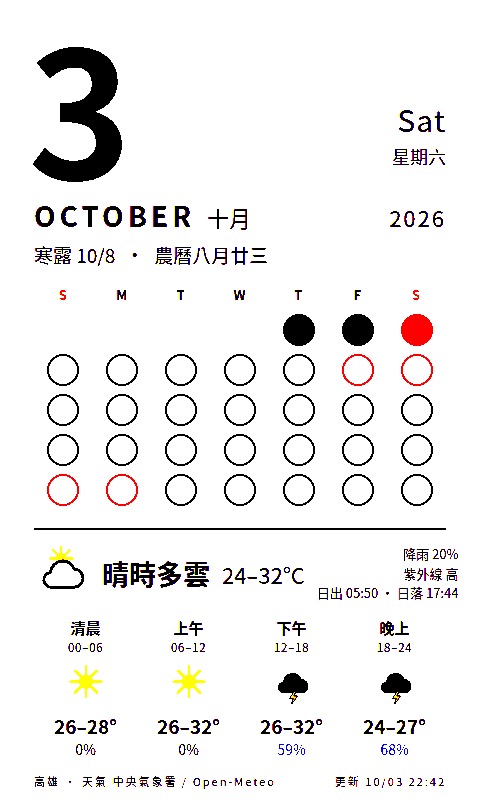
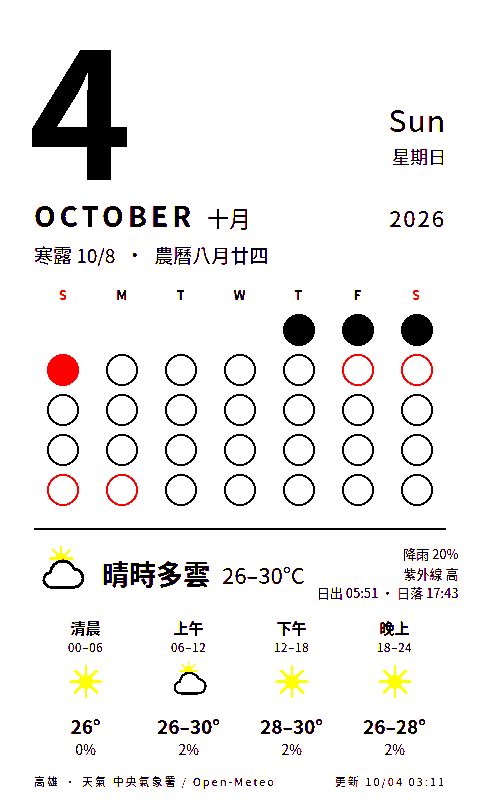
deploy: cf7d1051eb6821bc691ba0ade4beb12cdf9fe0ef

diff --git a/calendar.html b/calendar.html
@@ -47,16 +47,16 @@
 </style></head>
 <body><div class="page">
   <div class="head">
-    <div class="num">3</div>
-    <div class="wd"><div class="en">Sat</div><div class="zh">星期六</div></div>
+    <div class="num">4</div>
+    <div class="wd"><div class="en">Sun</div><div class="zh">星期日</div></div>
   </div>
   <div class="month"><span class="en">OCTOBER</span><span class="zh">十月</span><span class="yr">2026</span></div>
-  <div class="today"><span class="lunar">寒露 10/8</span><span>·</span><span class="lunar">農曆八月廿三</span></div>
-  <div class="grid"><div class="h we">S</div><div class="h">M</div><div class="h">T</div><div class="h">W</div><div class="h">T</div><div class="h">F</div><div class="h we">S</div><div class="dot empty"></div><div class="dot empty"></div><div class="dot empty"></div><div class="dot empty"></div><div class="dot past" title="1"></div><div class="dot past" title="2"></div><div class="dot now" title="3"></div><div class="dot future" title="4"></div><div class="dot future" title="5"></div><div class="dot future" title="6"></div><div class="dot future" title="7"></div><div class="dot future" title="8"></div><div class="dot future hol" title="9"></div><div class="dot future hol" title="10"></div><div class="dot future" title="11"></div><div class="dot future" title="12"></div><div class="dot future" title="13"></div><div class="dot future" title="14"></div><div class="dot future" title="15"></div><div class="dot future" title="16"></div><div class="dot future" title="17"></div><div class="dot future" title="18"></div><div class="dot future" title="19"></div><div class="dot future" title="20"></div><div class="dot future" title="21"></div><div class="dot future" title="22"></div><div class="dot future" title="23"></div><div class="dot future" title="24"></div><div class="dot future hol" title="25"></div><div class="dot future hol" title="26"></div><div class="dot future" title="27"></div><div class="dot future" title="28"></div><div class="dot future" title="29"></div><div class="dot future" title="30"></div><div class="dot future" title="31"></div></div>
+  <div class="today"><span class="lunar">寒露 10/8</span><span>·</span><span class="lunar">農曆八月廿四</span></div>
+  <div class="grid"><div class="h we">S</div><div class="h">M</div><div class="h">T</div><div class="h">W</div><div class="h">T</div><div class="h">F</div><div class="h we">S</div><div class="dot empty"></div><div class="dot empty"></div><div class="dot empty"></div><div class="dot empty"></div><div class="dot past" title="1"></div><div class="dot past" title="2"></div><div class="dot past" title="3"></div><div class="dot now" title="4"></div><div class="dot future" title="5"></div><div class="dot future" title="6"></div><div class="dot future" title="7"></div><div class="dot future" title="8"></div><div class="dot future hol" title="9"></div><div class="dot future hol" title="10"></div><div class="dot future" title="11"></div><div class="dot future" title="12"></div><div class="dot future" title="13"></div><div class="dot future" title="14"></div><div class="dot future" title="15"></div><div class="dot future" title="16"></div><div class="dot future" title="17"></div><div class="dot future" title="18"></div><div class="dot future" title="19"></div><div class="dot future" title="20"></div><div class="dot future" title="21"></div><div class="dot future" title="22"></div><div class="dot future" title="23"></div><div class="dot future" title="24"></div><div class="dot future hol" title="25"></div><div class="dot future hol" title="26"></div><div class="dot future" title="27"></div><div class="dot future" title="28"></div><div class="dot future" title="29"></div><div class="dot future" title="30"></div><div class="dot future" title="31"></div></div>
   <div class="wx"><div class="line">
-    <div class="wxhead"><svg viewBox="0 0 64 68" xmlns="http://www.w3.org/2000/svg"><g transform="translate(12 -4) scale(.6)"><circle cx="32" cy="32" r="11" fill="#f5c400"/><g stroke="#f5c400" stroke-width="4" stroke-linecap="round"><line x1="32" y1="32" x2="32" y2="8" transform="rotate(0 32 32)"/><line x1="32" y1="32" x2="32" y2="8" transform="rotate(45 32 32)"/><line x1="32" y1="32" x2="32" y2="8" transform="rotate(90 32 32)"/><line x1="32" y1="32" x2="32" y2="8" transform="rotate(135 32 32)"/><line x1="32" y1="32" x2="32" y2="8" transform="rotate(180 32 32)"/><line x1="32" y1="32" x2="32" y2="8" transform="rotate(225 32 32)"/><line x1="32" y1="32" x2="32" y2="8" transform="rotate(270 32 32)"/><line x1="32" y1="32" x2="32" y2="8" transform="rotate(315 32 32)"/></g></g><path d="M20 50h26a11 11 0 0 0 1-22 15 15 0 0 0-29 4 9 9 0 0 0 2 18z" fill="#fff" stroke="#000" stroke-width="3.5" stroke-linejoin="round"/></svg><span class="desc">晴時多雲</span><span class="temp">24–32°C</span>
-      <div class="meta">降雨 20%<br>紫外線 高<br>日出 05:50 · 日落 17:44</div></div>
-    <div class="slots"><div class="slot"><div class="n">清晨</div><div class="hrs">00–06</div><svg viewBox="0 0 64 68" xmlns="http://www.w3.org/2000/svg"><circle cx="32" cy="32" r="11" fill="#f5c400"/><g stroke="#f5c400" stroke-width="4" stroke-linecap="round"><line x1="32" y1="32" x2="32" y2="8" transform="rotate(0 32 32)"/><line x1="32" y1="32" x2="32" y2="8" transform="rotate(45 32 32)"/><line x1="32" y1="32" x2="32" y2="8" transform="rotate(90 32 32)"/><line x1="32" y1="32" x2="32" y2="8" transform="rotate(135 32 32)"/><line x1="32" y1="32" x2="32" y2="8" transform="rotate(180 32 32)"/><line x1="32" y1="32" x2="32" y2="8" transform="rotate(225 32 32)"/><line x1="32" y1="32" x2="32" y2="8" transform="rotate(270 32 32)"/><line x1="32" y1="32" x2="32" y2="8" transform="rotate(315 32 32)"/></g></svg><div class="t">26–28°</div><div class="p dry">0%</div></div><div class="slot"><div class="n">上午</div><div class="hrs">06–12</div><svg viewBox="0 0 64 68" xmlns="http://www.w3.org/2000/svg"><circle cx="32" cy="32" r="11" fill="#f5c400"/><g stroke="#f5c400" stroke-width="4" stroke-linecap="round"><line x1="32" y1="32" x2="32" y2="8" transform="rotate(0 32 32)"/><line x1="32" y1="32" x2="32" y2="8" transform="rotate(45 32 32)"/><line x1="32" y1="32" x2="32" y2="8" transform="rotate(90 32 32)"/><line x1="32" y1="32" x2="32" y2="8" transform="rotate(135 32 32)"/><line x1="32" y1="32" x2="32" y2="8" transform="rotate(180 32 32)"/><line x1="32" y1="32" x2="32" y2="8" transform="rotate(225 32 32)"/><line x1="32" y1="32" x2="32" y2="8" transform="rotate(270 32 32)"/><line x1="32" y1="32" x2="32" y2="8" transform="rotate(315 32 32)"/></g></svg><div class="t">26–32°</div><div class="p dry">0%</div></div><div class="slot"><div class="n">下午</div><div class="hrs">12–18</div><svg viewBox="0 0 64 68" xmlns="http://www.w3.org/2000/svg"><path d="M20 50h26a11 11 0 0 0 1-22 15 15 0 0 0-29 4 9 9 0 0 0 2 18z" fill="#000"/><path d="M36 46l-8 12h6l-3 9 10-13h-6l3-8z" fill="#f5c400" stroke="#000" stroke-width="1.5" stroke-linejoin="round"/></svg><div class="t">26–32°</div><div class="p ">59%</div></div><div class="slot"><div class="n">晚上</div><div class="hrs">18–24</div><svg viewBox="0 0 64 68" xmlns="http://www.w3.org/2000/svg"><path d="M20 50h26a11 11 0 0 0 1-22 15 15 0 0 0-29 4 9 9 0 0 0 2 18z" fill="#000"/><path d="M36 46l-8 12h6l-3 9 10-13h-6l3-8z" fill="#f5c400" stroke="#000" stroke-width="1.5" stroke-linejoin="round"/></svg><div class="t">24–27°</div><div class="p ">68%</div></div></div>
+    <div class="wxhead"><svg viewBox="0 0 64 68" xmlns="http://www.w3.org/2000/svg"><g transform="translate(12 -4) scale(.6)"><circle cx="32" cy="32" r="11" fill="#f5c400"/><g stroke="#f5c400" stroke-width="4" stroke-linecap="round"><line x1="32" y1="32" x2="32" y2="8" transform="rotate(0 32 32)"/><line x1="32" y1="32" x2="32" y2="8" transform="rotate(45 32 32)"/><line x1="32" y1="32" x2="32" y2="8" transform="rotate(90 32 32)"/><line x1="32" y1="32" x2="32" y2="8" transform="rotate(135 32 32)"/><line x1="32" y1="32" x2="32" y2="8" transform="rotate(180 32 32)"/><line x1="32" y1="32" x2="32" y2="8" transform="rotate(225 32 32)"/><line x1="32" y1="32" x2="32" y2="8" transform="rotate(270 32 32)"/><line x1="32" y1="32" x2="32" y2="8" transform="rotate(315 32 32)"/></g></g><path d="M20 50h26a11 11 0 0 0 1-22 15 15 0 0 0-29 4 9 9 0 0 0 2 18z" fill="#fff" stroke="#000" stroke-width="3.5" stroke-linejoin="round"/></svg><span class="desc">晴時多雲</span><span class="temp">26–30°C</span>
+      <div class="meta">降雨 20%<br>紫外線 高<br>日出 05:51 · 日落 17:43</div></div>
+    <div class="slots"><div class="slot"><div class="n">清晨</div><div class="hrs">00–06</div><svg viewBox="0 0 64 68" xmlns="http://www.w3.org/2000/svg"><circle cx="32" cy="32" r="11" fill="#f5c400"/><g stroke="#f5c400" stroke-width="4" stroke-linecap="round"><line x1="32" y1="32" x2="32" y2="8" transform="rotate(0 32 32)"/><line x1="32" y1="32" x2="32" y2="8" transform="rotate(45 32 32)"/><line x1="32" y1="32" x2="32" y2="8" transform="rotate(90 32 32)"/><line x1="32" y1="32" x2="32" y2="8" transform="rotate(135 32 32)"/><line x1="32" y1="32" x2="32" y2="8" transform="rotate(180 32 32)"/><line x1="32" y1="32" x2="32" y2="8" transform="rotate(225 32 32)"/><line x1="32" y1="32" x2="32" y2="8" transform="rotate(270 32 32)"/><line x1="32" y1="32" x2="32" y2="8" transform="rotate(315 32 32)"/></g></svg><div class="t">26°</div><div class="p dry">0%</div></div><div class="slot"><div class="n">上午</div><div class="hrs">06–12</div><svg viewBox="0 0 64 68" xmlns="http://www.w3.org/2000/svg"><g transform="translate(12 -4) scale(.6)"><circle cx="32" cy="32" r="11" fill="#f5c400"/><g stroke="#f5c400" stroke-width="4" stroke-linecap="round"><line x1="32" y1="32" x2="32" y2="8" transform="rotate(0 32 32)"/><line x1="32" y1="32" x2="32" y2="8" transform="rotate(45 32 32)"/><line x1="32" y1="32" x2="32" y2="8" transform="rotate(90 32 32)"/><line x1="32" y1="32" x2="32" y2="8" transform="rotate(135 32 32)"/><line x1="32" y1="32" x2="32" y2="8" transform="rotate(180 32 32)"/><line x1="32" y1="32" x2="32" y2="8" transform="rotate(225 32 32)"/><line x1="32" y1="32" x2="32" y2="8" transform="rotate(270 32 32)"/><line x1="32" y1="32" x2="32" y2="8" transform="rotate(315 32 32)"/></g></g><path d="M20 50h26a11 11 0 0 0 1-22 15 15 0 0 0-29 4 9 9 0 0 0 2 18z" fill="#fff" stroke="#000" stroke-width="3.5" stroke-linejoin="round"/></svg><div class="t">26–30°</div><div class="p dry">2%</div></div><div class="slot"><div class="n">下午</div><div class="hrs">12–18</div><svg viewBox="0 0 64 68" xmlns="http://www.w3.org/2000/svg"><circle cx="32" cy="32" r="11" fill="#f5c400"/><g stroke="#f5c400" stroke-width="4" stroke-linecap="round"><line x1="32" y1="32" x2="32" y2="8" transform="rotate(0 32 32)"/><line x1="32" y1="32" x2="32" y2="8" transform="rotate(45 32 32)"/><line x1="32" y1="32" x2="32" y2="8" transform="rotate(90 32 32)"/><line x1="32" y1="32" x2="32" y2="8" transform="rotate(135 32 32)"/><line x1="32" y1="32" x2="32" y2="8" transform="rotate(180 32 32)"/><line x1="32" y1="32" x2="32" y2="8" transform="rotate(225 32 32)"/><line x1="32" y1="32" x2="32" y2="8" transform="rotate(270 32 32)"/><line x1="32" y1="32" x2="32" y2="8" transform="rotate(315 32 32)"/></g></svg><div class="t">28–30°</div><div class="p dry">2%</div></div><div class="slot"><div class="n">晚上</div><div class="hrs">18–24</div><svg viewBox="0 0 64 68" xmlns="http://www.w3.org/2000/svg"><circle cx="32" cy="32" r="11" fill="#f5c400"/><g stroke="#f5c400" stroke-width="4" stroke-linecap="round"><line x1="32" y1="32" x2="32" y2="8" transform="rotate(0 32 32)"/><line x1="32" y1="32" x2="32" y2="8" transform="rotate(45 32 32)"/><line x1="32" y1="32" x2="32" y2="8" transform="rotate(90 32 32)"/><line x1="32" y1="32" x2="32" y2="8" transform="rotate(135 32 32)"/><line x1="32" y1="32" x2="32" y2="8" transform="rotate(180 32 32)"/><line x1="32" y1="32" x2="32" y2="8" transform="rotate(225 32 32)"/><line x1="32" y1="32" x2="32" y2="8" transform="rotate(270 32 32)"/><line x1="32" y1="32" x2="32" y2="8" transform="rotate(315 32 32)"/></g></svg><div class="t">26–28°</div><div class="p dry">2%</div></div></div>
   </div></div>
-  <div class="foot"><span>高雄 · 天氣 中央氣象署 / Open-Meteo</span><span>更新 10/03 22:42</span></div>
+  <div class="foot"><span>高雄 · 天氣 中央氣象署 / Open-Meteo</span><span>更新 10/04 03:11</span></div>
 </div></body></html>
